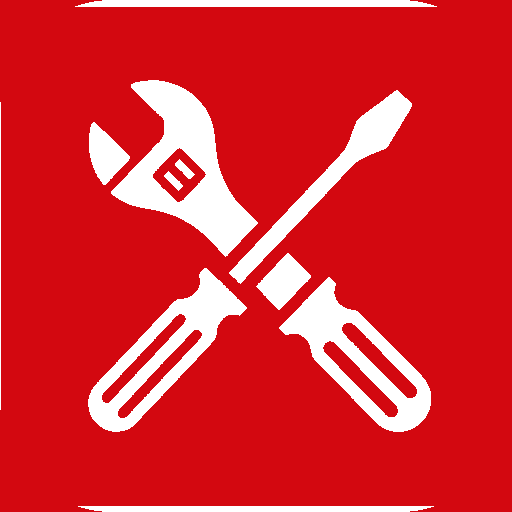
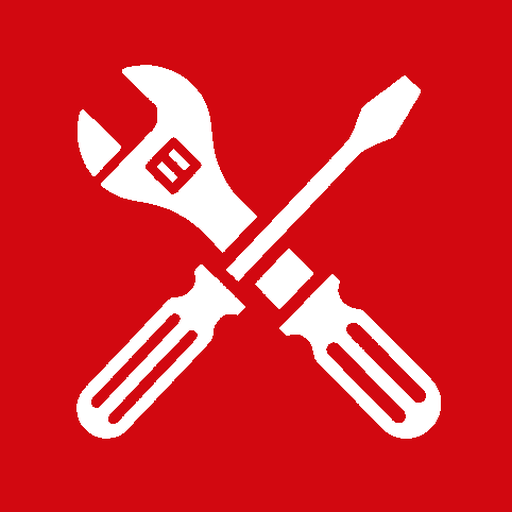
Add files via upload

diff --git a/index.html b/index.html
@@ -378,11 +378,9 @@ function render(){
   // Photos (annexe)
   const pc = el('section',{class:'card'}, el('h2','Photos (annexe)'));
   const camInput = el('input',{type:'file', accept:'image/*', capture:'environment', style:'display:none', onchange:e=>{ handleFiles(e.target.files); e.target.value=''; }});
-  const galInput = el('input',{type:'file', accept:'image/*', multiple:'multiple', style:'display:none', onchange:e=>{ handleFiles(e.target.files); e.target.value=''; }});
   const actions = el('div',{class:'photo-actions'},
     el('button',{class:'btn-photo', onclick:()=>camInput.click()},'📷 Prendre une photo'),
-    el('button',{class:'btn-photo ghost', onclick:()=>galInput.click()},'🖼 Galerie'),
-    camInput, galInput
+    camInput
   );
   pc.append(actions);
   if(state.photos.length){
@@ -508,23 +506,34 @@ async function generateRapportPDF(){
   if(state.sigTech){ try{ doc.addImage(state.sigTech,'PNG', rightX+10, sy+18, boxW-20, boxH-26);}catch(e){} }
   if(state.nomTech){ doc.setFont('helvetica','normal'); doc.setFontSize(9); doc.setTextColor.apply(doc, SUB); doc.text(String(state.nomTech), rightX+8, sy+boxH+14); }
 
-  // Annexes photos (une par page)
+  // Annexe photos — empilées à la suite (nouvelle page si débordement)
   if(state.photos && state.photos.length){
-    const n = state.photos.length;
-    state.photos.forEach((p,i)=>{
-      doc.addPage();
-      doc.setFillColor.apply(doc, REDD); doc.roundedRect(M, 40, 172, 28, 8, 8, 'F');
-      doc.setFont('helvetica','bold'); doc.setFontSize(12); doc.setTextColor(255);
-      doc.text('ANNEXE PHOTO ' + (i+1) + ' / ' + n, M+86, 58, {align:'center'});
-      if(state.client){ doc.setFont('helvetica','normal'); doc.setFontSize(9); doc.setTextColor.apply(doc, SUB); doc.text(String(state.client), W-M, 58, {align:'right'}); }
-      const availW = W-2*M, top = 92, bottom = H-48, availH = bottom-top;
-      let iw = p.w||availW, ih = p.h||availH;
-      const s = Math.min(availW/iw, availH/ih);
-      const dw = iw*s, dh = ih*s;
-      const ix = M + (availW-dw)/2, iy = top;
-      try{ doc.addImage(p.data, 'JPEG', ix, iy, dw, dh); }catch(e){}
+    const availW = W-2*M, bottomLimit = H-46, maxH = 300;
+    doc.addPage();
+    doc.setFillColor.apply(doc, REDD); doc.roundedRect(M, 40, 150, 28, 8, 8, 'F');
+    doc.setFont('helvetica','bold'); doc.setFontSize(12); doc.setTextColor(255);
+    doc.text('ANNEXE PHOTOS', M+75, 58, {align:'center'});
+    if(state.client){ doc.setFont('helvetica','normal'); doc.setFontSize(9); doc.setTextColor.apply(doc, SUB); doc.text(String(state.client), W-M, 58, {align:'right'}); }
+    let py = 92;
+    state.photos.forEach((p,idx)=>{
+      let iw = p.w||availW, ih = p.h||maxH;
+      let dw = availW, dh = ih*(dw/iw);
+      if(dh > maxH){ dh = maxH; dw = iw*(dh/ih); }
+      const blockH = dh + 24;
+      if(py + blockH > bottomLimit){
+        doc.addPage();
+        doc.setFillColor.apply(doc, REDD); doc.roundedRect(M, 40, 182, 28, 8, 8, 'F');
+        doc.setFont('helvetica','bold'); doc.setFontSize(12); doc.setTextColor(255);
+        doc.text('ANNEXE PHOTOS (suite)', M+91, 58, {align:'center'});
+        py = 92;
+      }
+      const ix = M + (availW-dw)/2;
+      try{ doc.addImage(p.data, 'JPEG', ix, py, dw, dh); }catch(e){}
       doc.setDrawColor.apply(doc, WARMB); doc.setLineWidth(0.9);
-      doc.roundedRect(ix-4, iy-4, dw+8, dh+8, 6, 6, 'S');
+      doc.roundedRect(ix-3, py-3, dw+6, dh+6, 6, 6, 'S');
+      doc.setFont('helvetica','normal'); doc.setFontSize(8.5); doc.setTextColor.apply(doc, SUB);
+      doc.text('Photo ' + (idx+1), M, py+dh+13);
+      py += dh + 28;
     });
   }
 

diff --git a/sw.js b/sw.js
@@ -1,4 +1,4 @@
-const CACHE = 'loxsav-v2';
+const CACHE = 'loxsav-v3';
 const ASSETS = [
   './',
   './index.html',